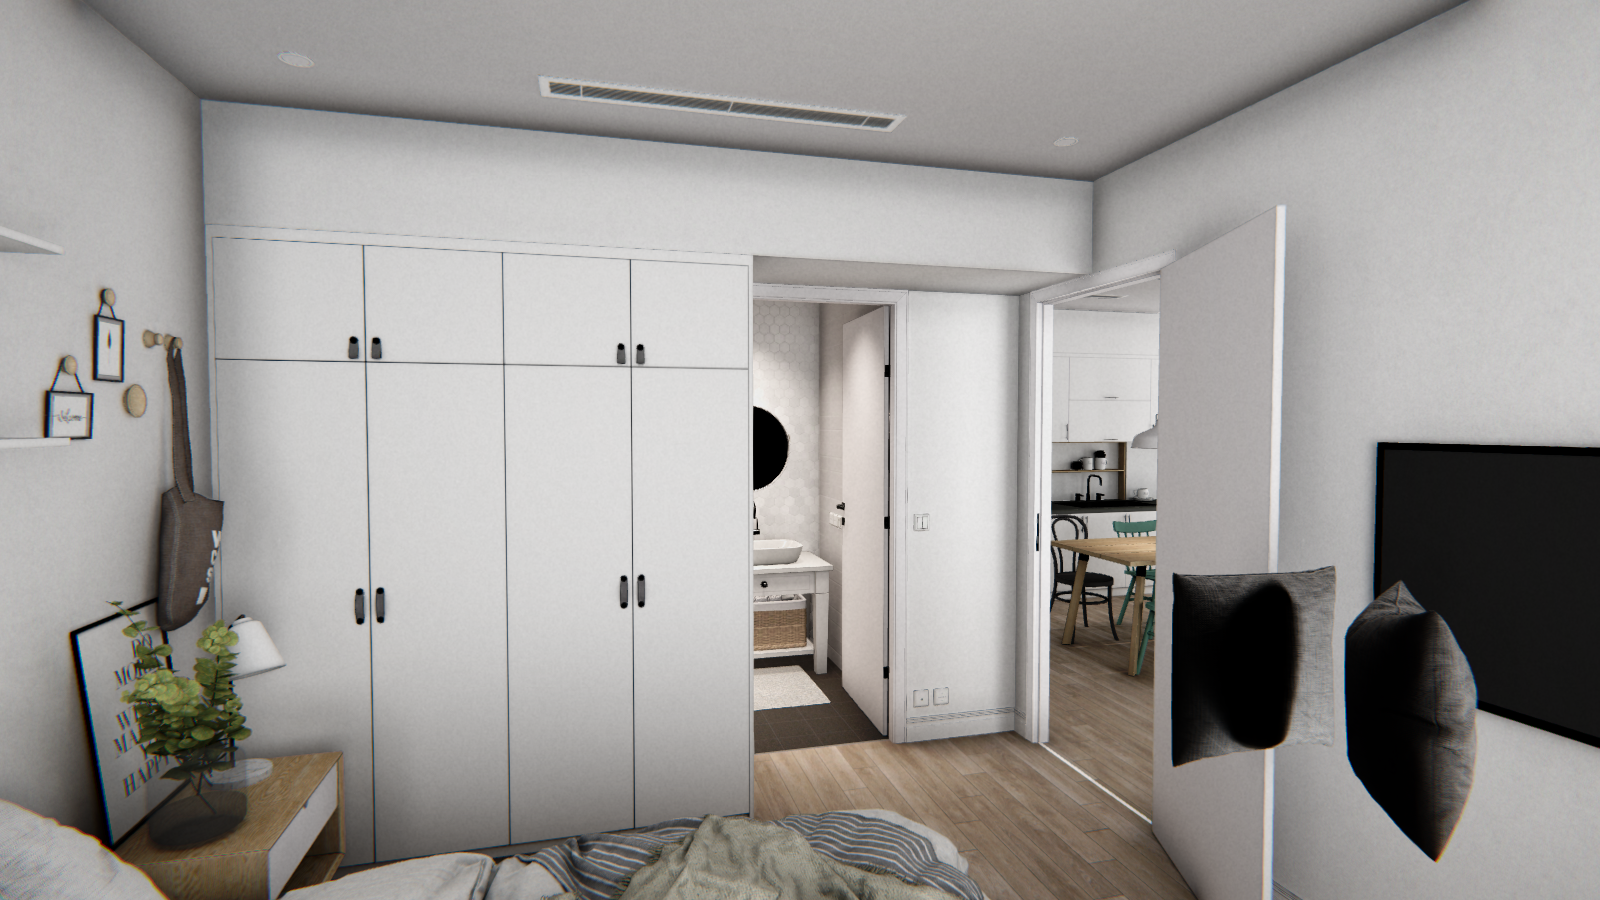
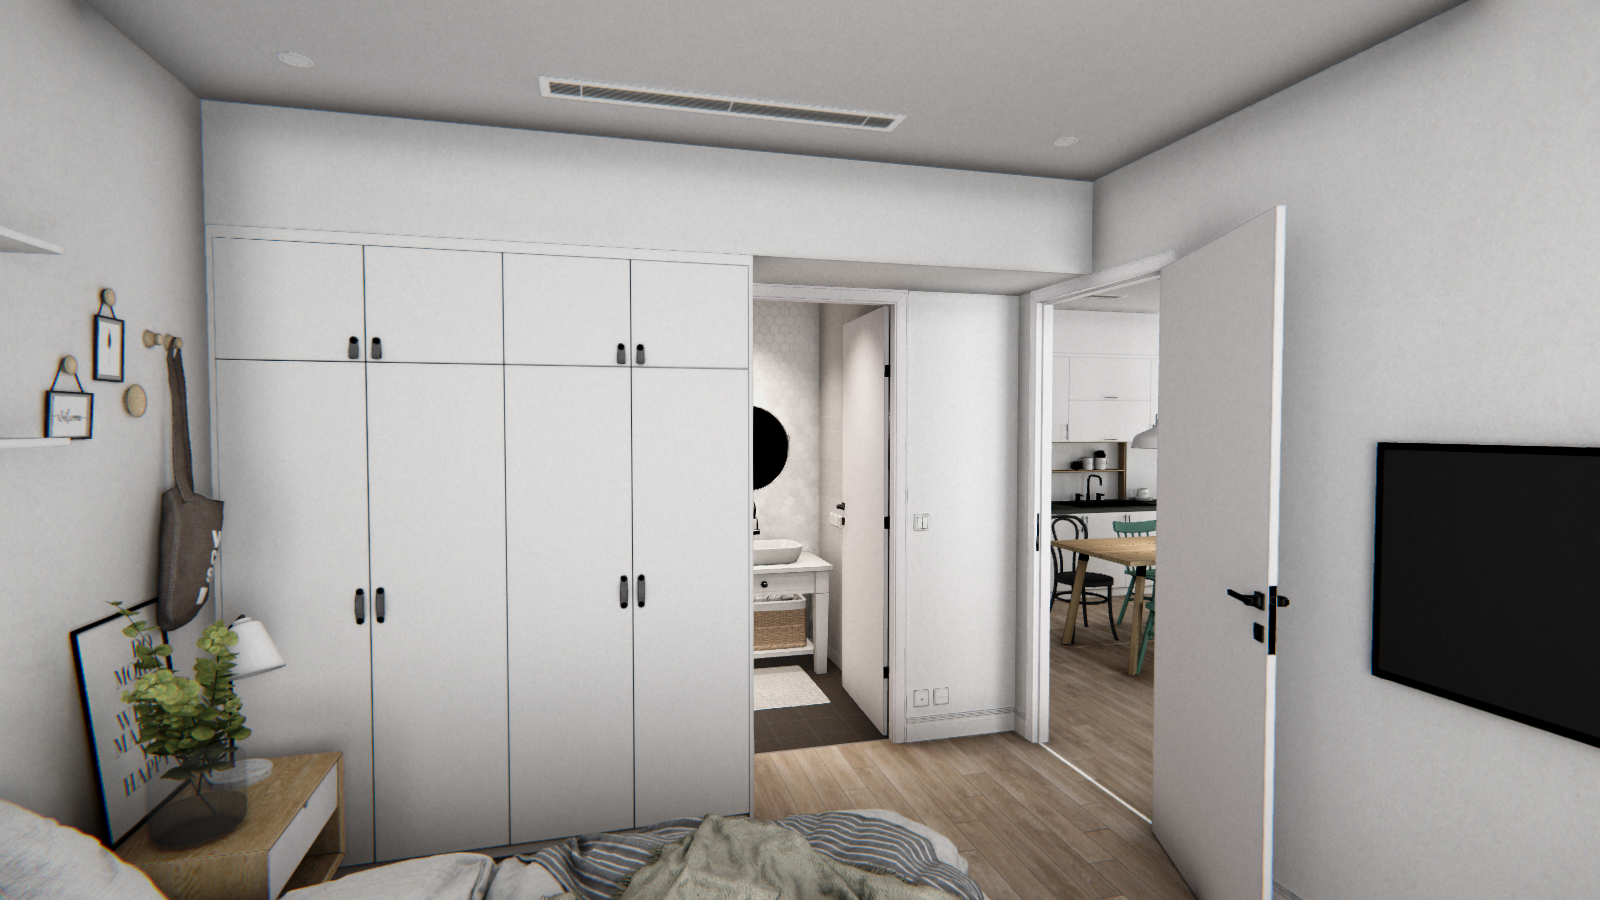
fix(anim): SpeedRatio 反馈死锁 + 机位回到床内 + 地面靠垫收起
- SpeedRatio 只跟刹车走。原来用 body/expected 反推，会和状态机形成死锁：
  速率低 → 进 WalkStop → 片段步速归零 → 身体掉到保底 0.08 m/s → 速率更低。
  日志实测途经点 speed=0.08，就是这条环锁出来的
- 机位从床沿外侧移到床身内（z 1.55），俯角 -6°，保住躺在床上看窗前的构图
- 掉在地上的两个靠垫（含 10 个 LOD 副本）直接收起：怎么摆都会和床面穿插或悬空

Changed region(s): [[0.7188, 0.6222, 0.9375, 0.9644]]

diff --git a/DawnAndDusk/Assets/Editor/ApartmentSceneBuilder.cs b/DawnAndDusk/Assets/Editor/ApartmentSceneBuilder.cs
@@ -18,10 +18,10 @@ public static class ApartmentSceneBuilder
     const string VrmPath = "Assets/Characters/DeepSeekChan/DeepSeek-chan.vrm";
     static readonly string OutDir = Path.Combine(Application.dataPath, "../dsh-apartment-shots");
 
-    // 玩家开局躺在床上（相机 1.00m），按移动键起身到床尾空地
-    static readonly Vector3 PlayerPos = new Vector3(3.45f, 0.05f, 2.05f);
-    static readonly Vector3 PlayerEuler = new Vector3(-1f, 0f, 0f);
-    static readonly Vector3 StandUpPos = new Vector3(3.30f, 0.05f, 0.50f);
+    // 玩家躺在床上（床身 z 0.90~3.14 的南半部，离窗 2.1m），起身后站到床沿北侧的窗带里
+    static readonly Vector3 PlayerPos = new Vector3(3.53f, 0.05f, 1.55f);
+    static readonly Vector3 PlayerEuler = new Vector3(-6f, 0f, 0f);
+    static readonly Vector3 StandUpPos = new Vector3(3.53f, 0.05f, 3.28f);
 
     /// <summary>目标身高（米）：玩家 175cm → 站立视线 163cm；鲸鲸 162cm。</summary>
     const float PlayerEyeHeight = 1.63f;
@@ -60,35 +60,24 @@ public static class ApartmentSceneBuilder
     {
         var moved = 0;
 
-        // 只做"把掉在地上的靠垫放回床上"这一处清理；书桌/椅子/竹篮保持原样
-        // （房间净宽 3.52m，书桌+床+床头柜合计 3.56m，挪动换不出通道，挪了反而更怪）
-        var plan = new (string prefix, Vector3 target, float yaw)[]
+        // 掉在地上的两个靠垫直接收起来（怎么摆都容易和床面穿插/悬空），书桌椅子保持原样
+        var hide = new[] { "Bed_Bedroom_Pillow6", "Bed_Bedroom_Pillow7" };
+        var hidden = 0;
+        foreach (var t in Object.FindObjectsOfType<Transform>())
         {
-            ("Bed_Bedroom_Pillow6", new Vector3(3.10f, 0.42f, 1.60f), 0f),
-            ("Bed_Bedroom_Pillow7", new Vector3(3.30f, 0.42f, 1.45f), 0f),
-        };
-
-        foreach (var (prefix, target, yaw) in plan)
-        {
-            foreach (var t in Object.FindObjectsOfType<Transform>())
+            if (!t.gameObject.activeInHierarchy || !InBedroom(t))
             {
-                if (!t.gameObject.activeInHierarchy || !InBedroom(t))
-                {
-                    continue;
-                }
+                continue;
+            }
 
-                if (!t.name.StartsWith(prefix, System.StringComparison.OrdinalIgnoreCase))
-                {
-                    continue;
-                }
-
-                t.position = target;
-                t.rotation = Quaternion.Euler(0f, yaw, 0f);
-                moved++;
+            if (hide.Any(h => t.name.StartsWith(h, System.StringComparison.OrdinalIgnoreCase)))
+            {
+                t.gameObject.SetActive(false);
+                hidden++;
             }
         }
 
-        Debug.Log($"[Apartment] 主卧物件归位：{moved} 个");
+        Debug.Log($"[Apartment] 收起地面靠垫：{hidden} 个");
     }
 
     /// <summary>向上三层查父级名字里有没有 BEDROOM（家具的层级是 ..._LOD &lt; BEDROOM）。</summary>

diff --git a/DawnAndDusk/Assets/Scripts/Characters/NpcAnimationDriver.cs b/DawnAndDusk/Assets/Scripts/Characters/NpcAnimationDriver.cs
@@ -67,10 +67,11 @@ public class NpcAnimationDriver : MonoBehaviour
         var normalized = Mathf.Repeat(state.normalizedTime, 1f);
         _speedScale = profile != null ? profile.Scale(CurrentStateName, normalized) : 1f;
 
-        // 播放速率 = 实际身体速度 / 片段在该相位的应有速度。
-        // 直走时 ≈1，刹车时随之变慢，脚就不会比地面快（这是消掉"停止滑步"的关键）
-        var expected = npc.moveSpeed * Mathf.Max(_speedScale, 0.05f);
-        SpeedRatio = Mathf.Clamp(npc.CurrentSpeed / Mathf.Max(expected, 0.01f), 0f, 1.5f);
+        // 播放速率只跟"刹车"走。不要用 body/expected 反推——那会和状态机形成死锁：
+        // 速率低 → 进 WalkStop → 片段步速归零 → 身体掉到保底速度 → 速率更低（实测卡在 0.08 m/s）
+        SpeedRatio = npc.IsBraking
+            ? Mathf.Clamp(npc.CurrentSpeed / Mathf.Max(npc.moveSpeed, 0.01f), 0.15f, 1f)
+            : 1f;
 
         // Speed 参数表示"移动意图"：状态机靠它决定进/出走路，不再和实际速度互相依赖
         var target = npc.IsMoving ? 1f : 0f;
